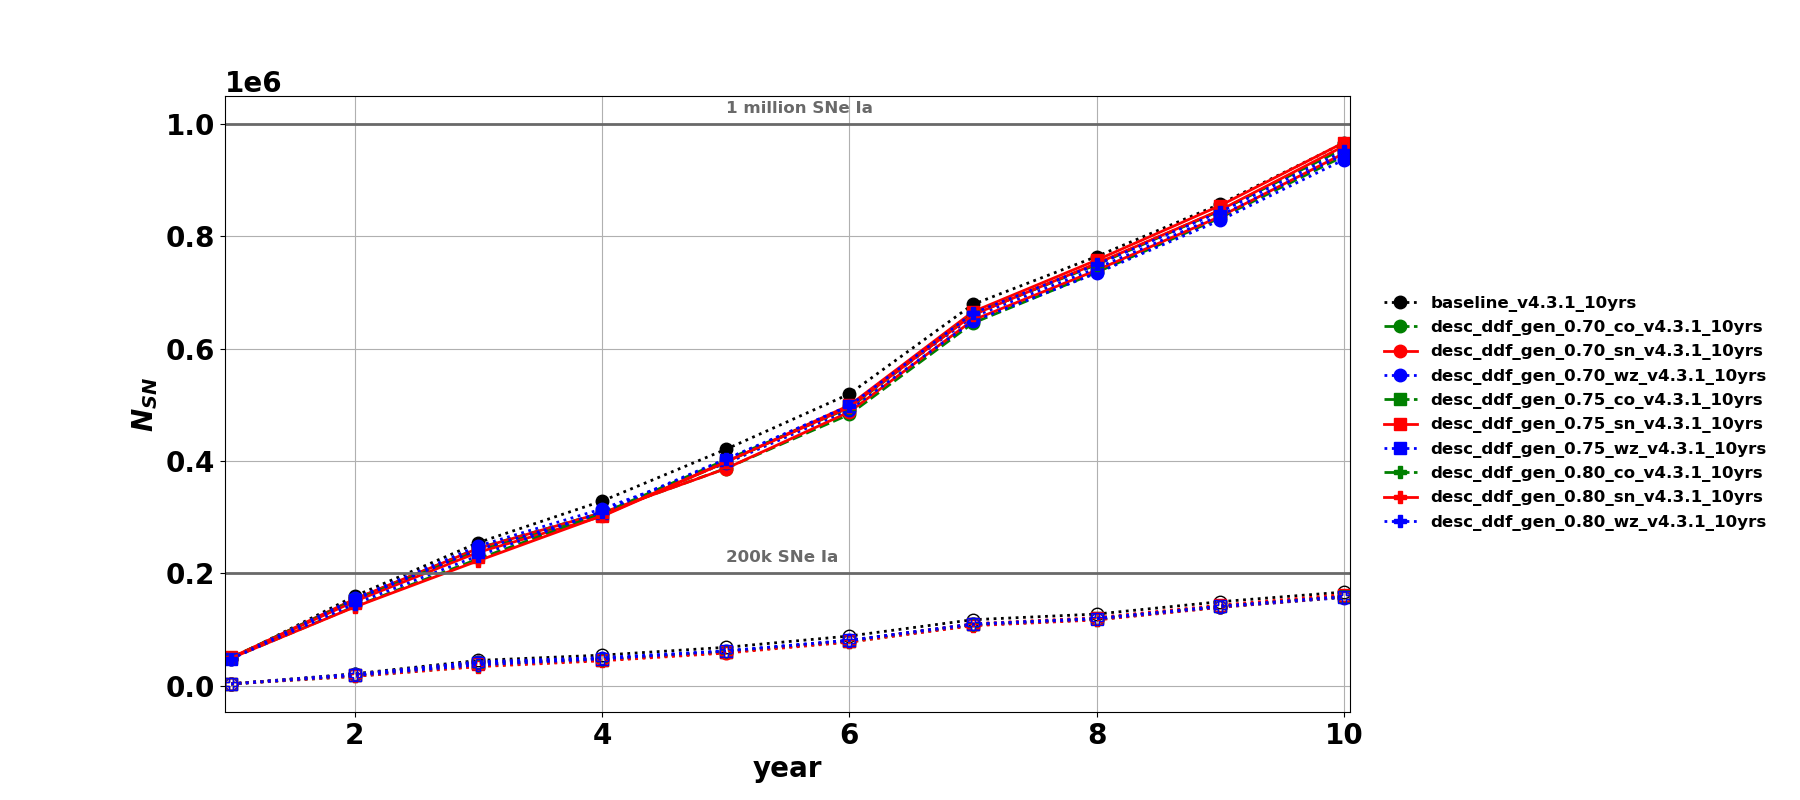
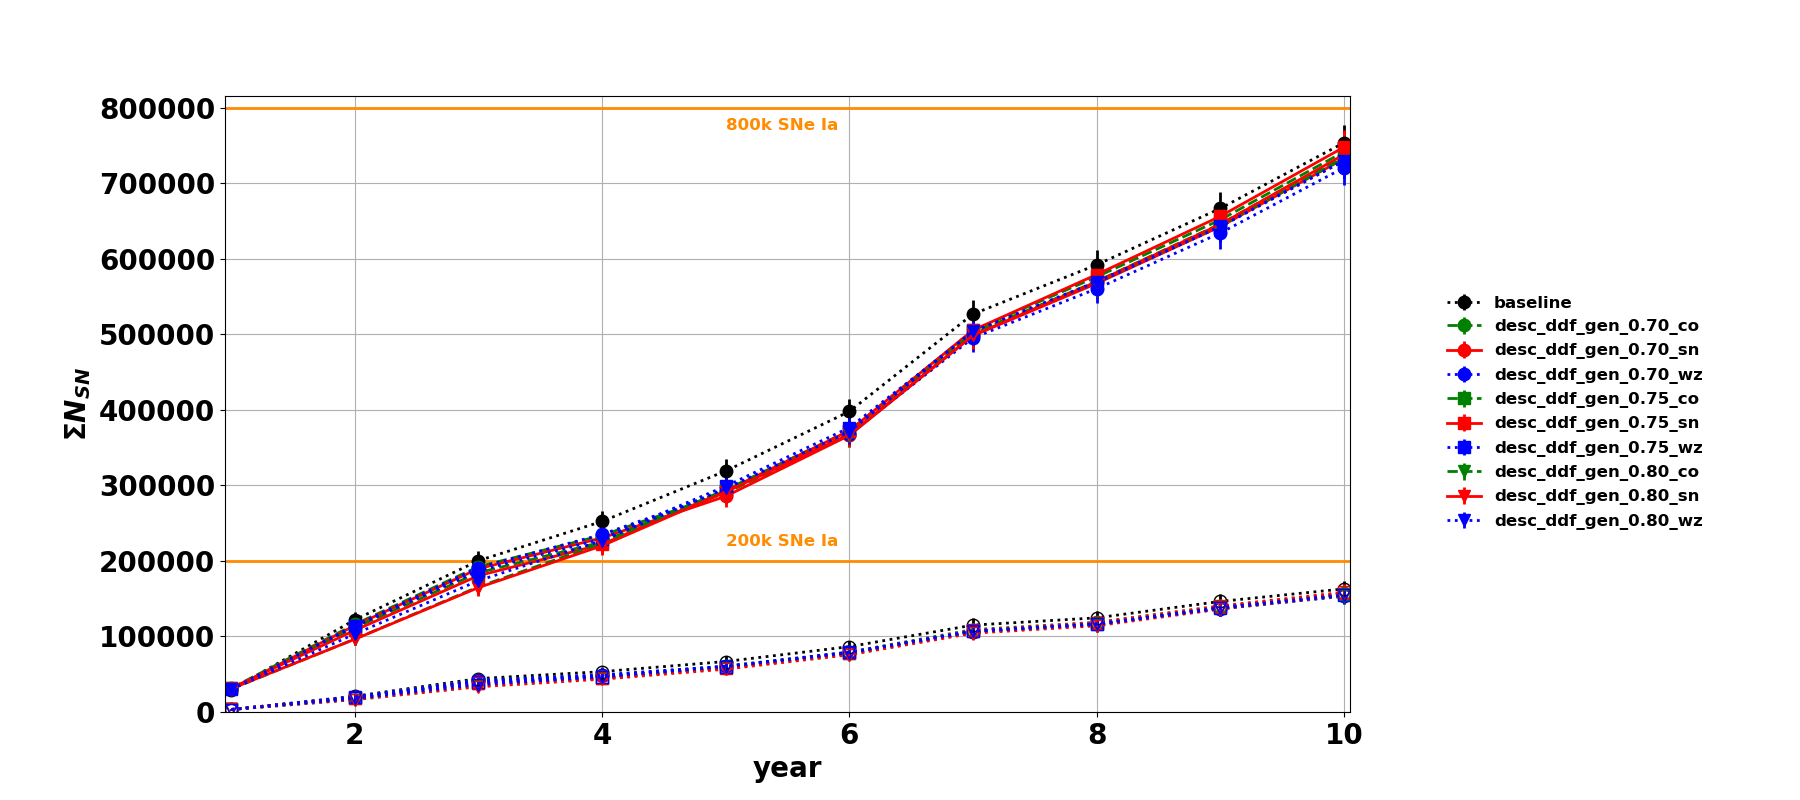
doc update for WFD plots

diff --git a/docs/sn/wfd_summary.md b/docs/sn/wfd_summary.md
@@ -47,18 +47,33 @@ Options:
                         time slot (season or year) to process [1-10]
   --timescale=TIMESCALE
                         timescale of the files to process [year]
-  --plots=PLOTS         plots to draw [summary,mollweid,density,density_indiv,
-                        density_season]
+  --plots=PLOTS         plots to draw [summary,mollweid,mollweid_ffmpeg,densit
+                        y,density_indiv,density_season]
   --outDir=OUTDIR       output dir [../sn_wfd]
   --fName=FNAME         output name [nsn_wfd.hdf5]
   --nside=NSIDE         healpix nside parameter [64]
   --vartoplot=VARTOPLOT
                         var to plot (nsn/nsn_cosmo) [nsn]
+  --OS_ref=OS_REF       ref OS for normalization [None]
+  --print_nsn=PRINT_NSN
+                        to print nsn as a latex table [0]
 
 </pre>
 
-### Example
+### Examples
 
 python plot_scripts/sn/sn_analyzer_sel_wfd.py --config=[config_ana_selplot.csv](config_ana_selplot.csv) --plots=summary
 
 [NSN WFD summary plot](plote1.png)
+
+[NSN WFD summary plot - cosmology grade sample](plote2.png)
+
+[Relative NSN (cumul) variation vs year](plote3.png)
+
+python plot_scripts/sn/sn_analyzer_sel_wfd.py --config=config_ana_selplot.csv --plots=mollweid
+
+-> files located in outDir/Os_name
+
+[NSN vs year - Mollweid view](plote4.png)
+
+### the option --print_nsn=1 lead to the printing of (nsn, err_nsn) for each OS/year in latex format.
